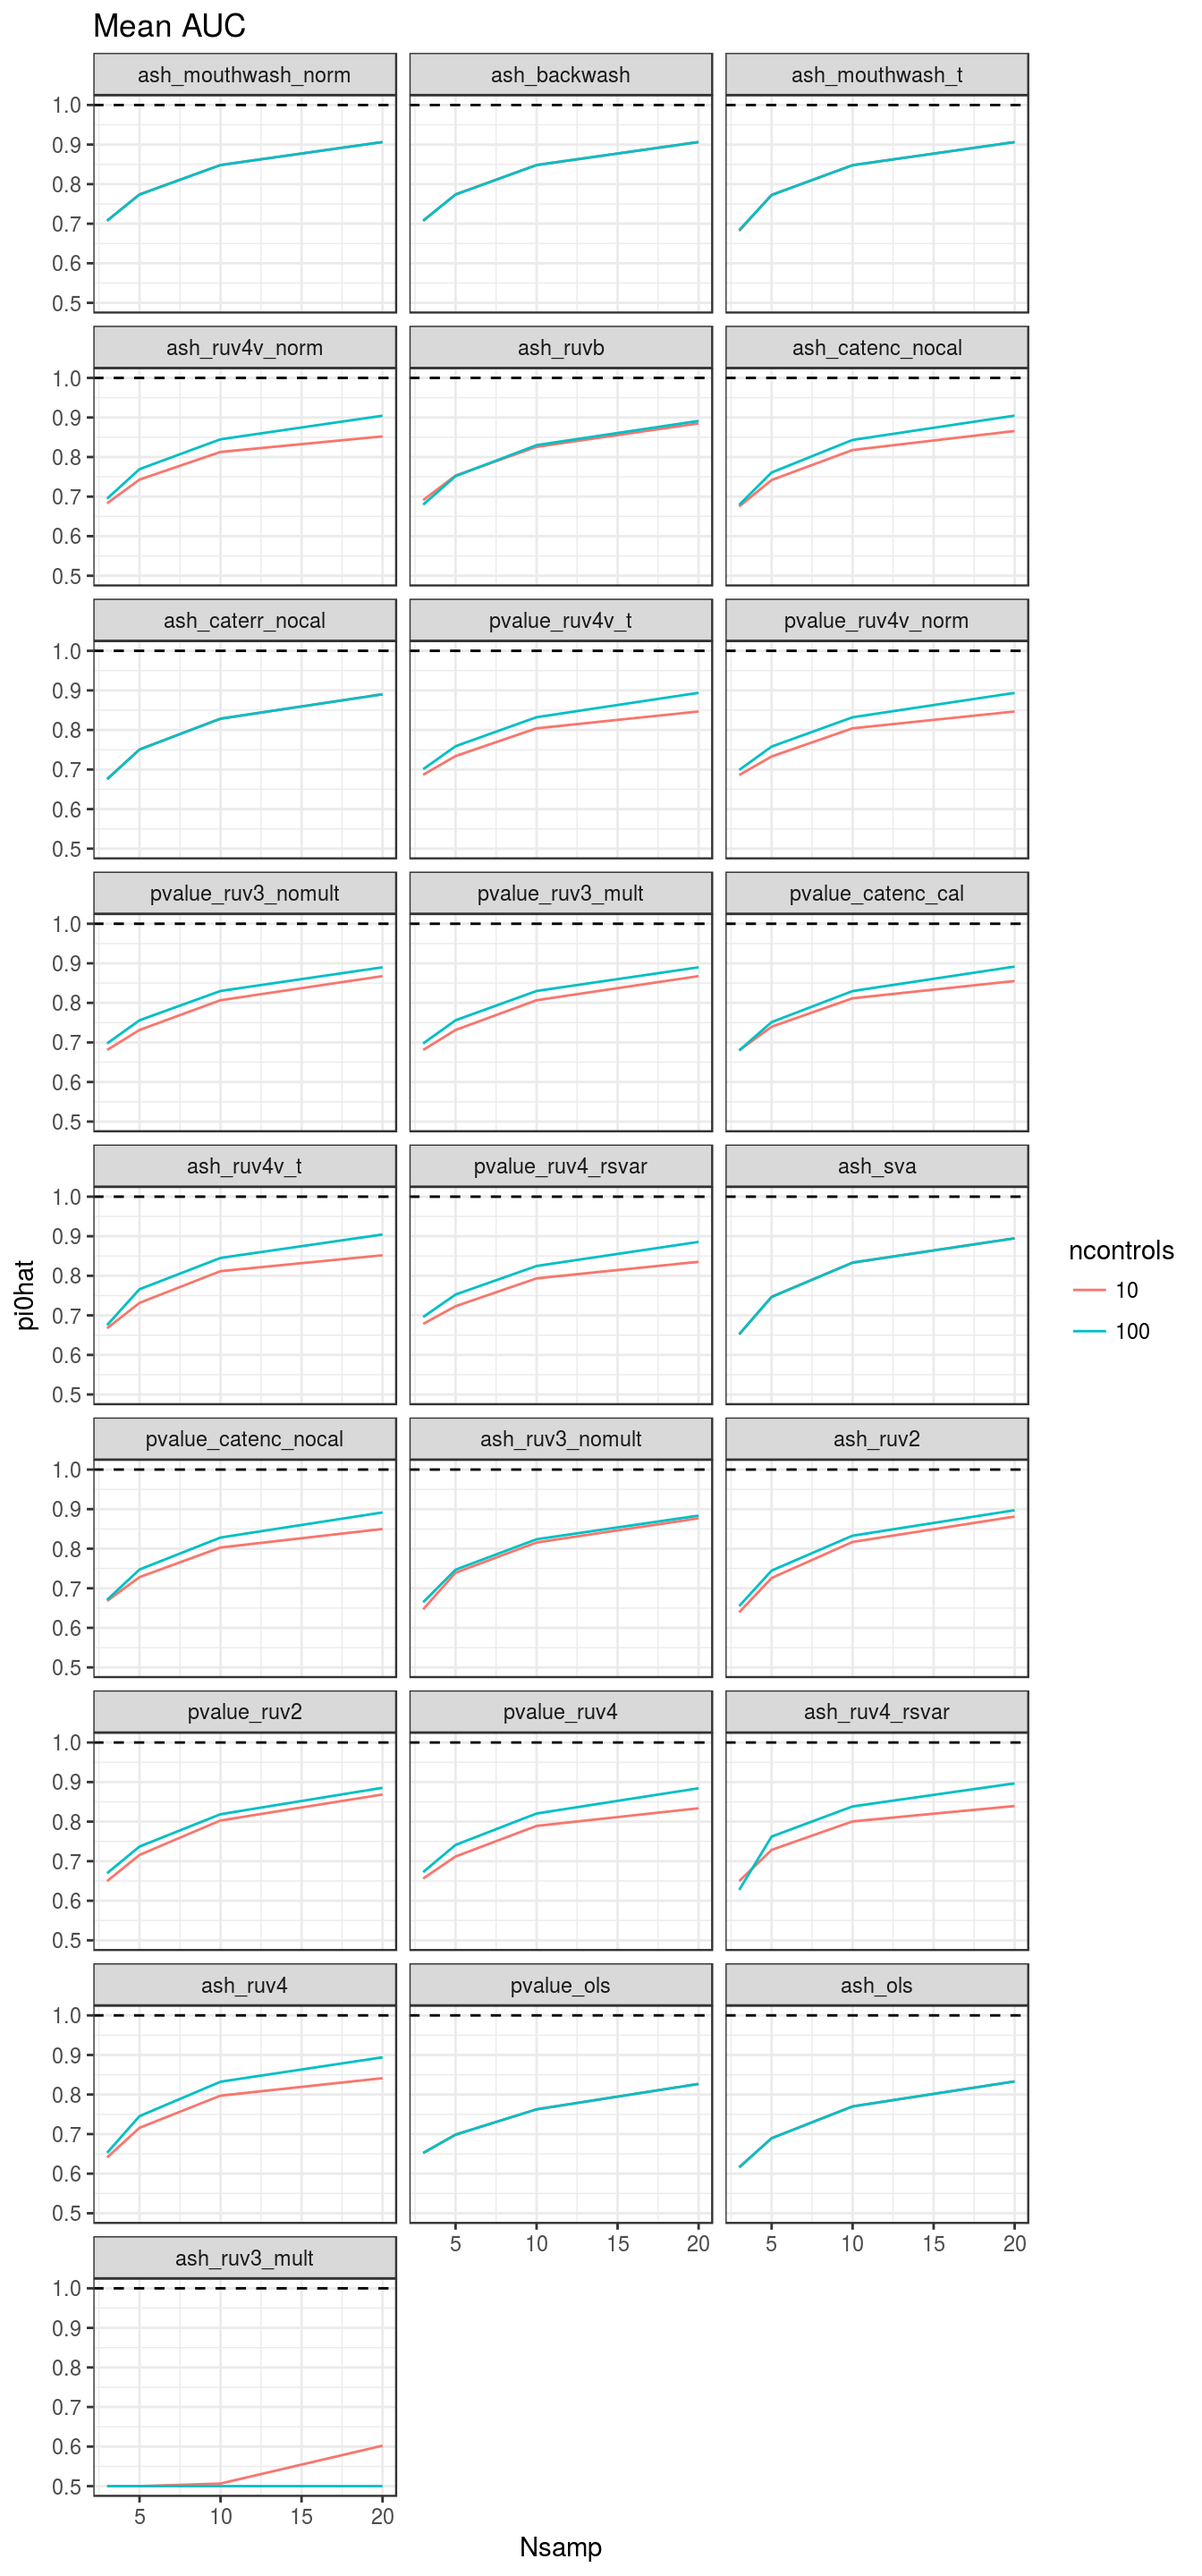
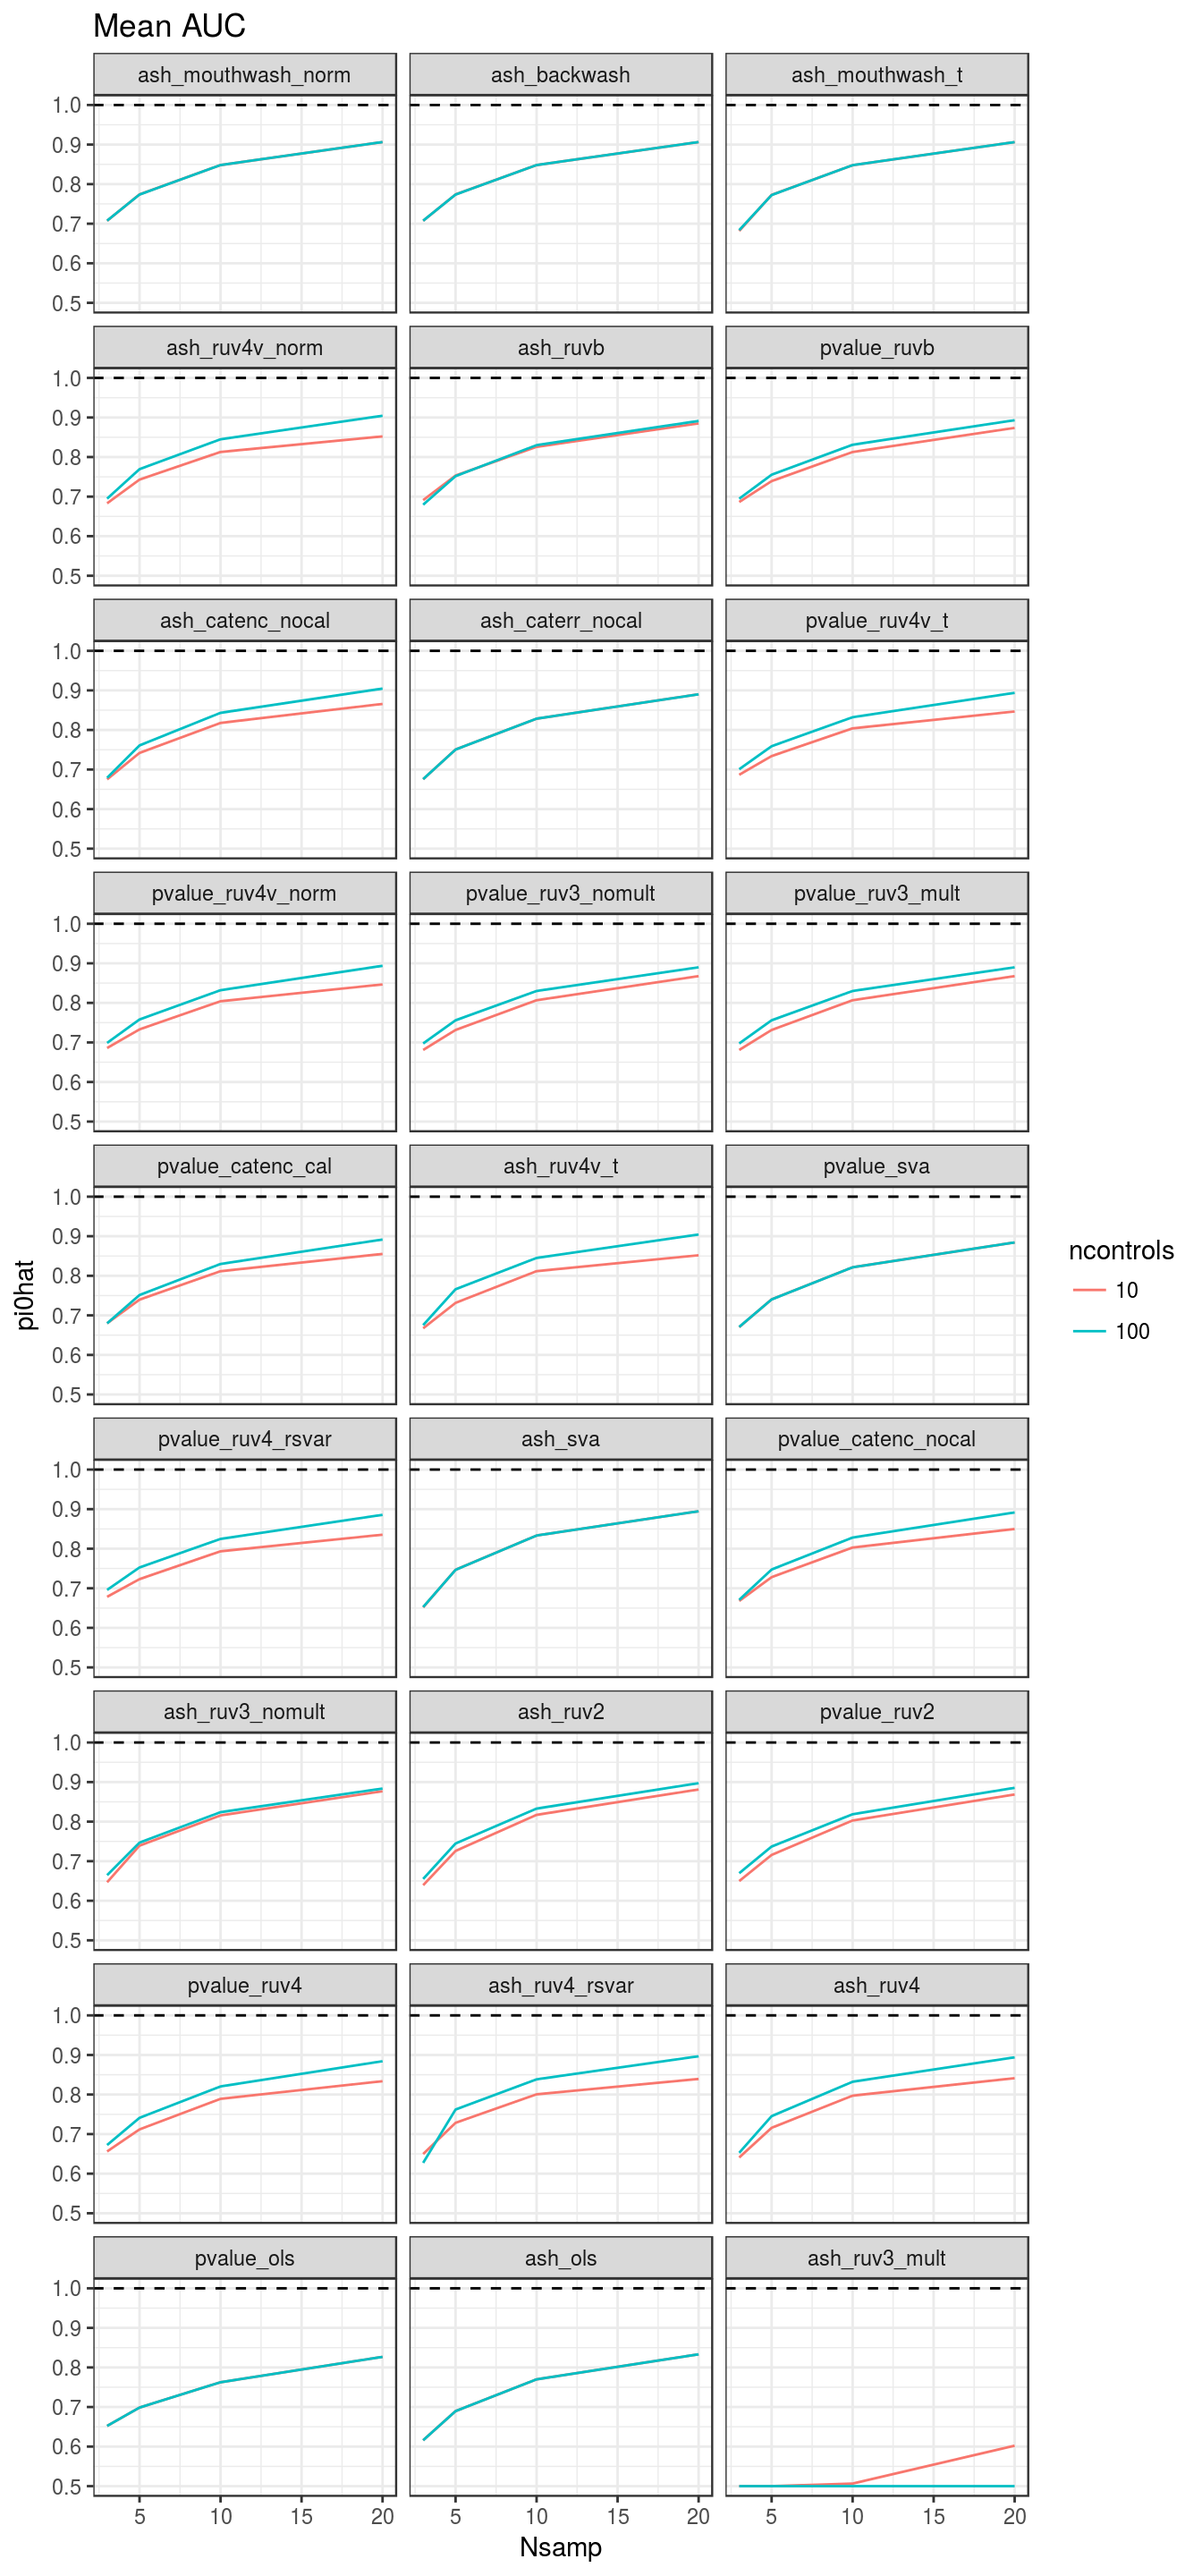
update of sim run

diff --git a/docs/ruvb_plus_ash.html b/docs/ruvb_plus_ash.html
@@ -330,7 +330,7 @@ div.tocify {
 ##     intersect, setdiff, setequal, union</code></pre>
 <pre class="r"><code>pi0hat &lt;- read.csv(file = &quot;../output/sims_out/pi0_mat2.csv&quot;)
 pos_bad &lt;- grep(names(pi0hat), pattern = &quot;auc&quot;) # some columns accidently have auc instead of pi0hat
-pi0hat &lt;- select(pi0hat, -pos_bad)
+pi0hat &lt;- select(pi0hat, -pos_bad) %&gt;% select(-pi0_qvalue_ruvb)
 mean_dat &lt;- pi0hat %&gt;%
   dplyr::select(-current_seed, -poisthin) %&gt;%
   dplyr::group_by(nullpi, Nsamp, ncontrols) %&gt;%
@@ -347,8 +347,8 @@ mean_dat_round[, -(1:3)] &lt;- round(mean_dat_round[, -(1:3)], digits = 2)
 DT::datatable(mean_dat_round, extensions = &#39;FixedColumns&#39;,
               options = list(dom = &quot;t&quot;, scrollX = TRUE, fixedColumns = list(leftColumns = 3)),
               rownames = FALSE)</code></pre>
-<div id="htmlwidget-59cc219c5da94035b553" style="width:100%;height:auto;" class="datatables html-widget"></div>
-<script type="application/json" data-for="htmlwidget-59cc219c5da94035b553">{"x":{"filter":"none","extensions":["FixedColumns"],"data":[[0.9,0.9,0.9,0.9,0.9,0.9,0.9,0.9],[3,3,5,5,10,10,20,20],[10,100,10,100,10,100,10,100],[0.94,0.94,0.92,0.92,0.91,0.91,0.9,0.9],[0.87,0.87,0.87,0.87,0.89,0.89,0.89,0.89],[0.86,0.86,0.87,0.87,0.88,0.88,0.89,0.89],[0.84,0.85,0.87,0.88,0.87,0.87,0.87,0.89],[0.81,0.82,0.85,0.84,0.85,0.86,0.85,0.89],[0.98,0.98,0.97,0.97,0.97,0.97,0.97,0.98],[0.81,0.81,0.85,0.85,0.82,0.82,0.82,0.82],[1,1,1,1,1,1,0.99,1],[1,1,1,1,1,1,1,1],[0.77,0.77,0.8,0.8,0.79,0.83,0.8,0.86],[0.77,0.77,0.78,0.78,0.79,0.81,0.81,0.84],[0.77,0.78,0.75,0.8,0.72,0.82,0.67,0.84],[0.61,0.61,0.74,0.74,0.75,0.75,0.76,0.76],[0.6,0.59,0.67,0.66,0.77,0.75,0.85,0.82],[0.79,0.94,0.73,0.93,0.61,0.9,0.41,0.87],[0.46,0.47,0.69,0.67,0.77,0.76,0.81,0.83],[0.77,0.95,0.68,0.92,0.5,0.9,0.29,0.89],[0.74,0.94,0.66,0.92,0.49,0.9,0.29,0.89],[0.74,0.98,0.63,0.93,0.46,0.88,0.25,0.84],[0.41,0.42,0.61,0.61,0.72,0.72,0.77,0.77],[0.37,0.4,0.48,0.56,0.53,0.68,0.48,0.74],[0.26,0.24,0.44,0.38,0.67,0.58,0.81,0.74],[0.2,0.2,0.32,0.32,0.43,0.43,0.53,0.53]],"container":"<table class=\"display\">\n  <thead>\n    <tr>\n      <th>nullpi\u003c/th>\n      <th>Nsamp\u003c/th>\n      <th>ncontrols\u003c/th>\n      <th>ash_mouthwash_t\u003c/th>\n      <th>ash_backwash\u003c/th>\n      <th>ash_mouthwash_norm\u003c/th>\n      <th>qvalue_ruv2\u003c/th>\n      <th>qvalue_ruv3_nomult\u003c/th>\n      <th>qvalue_catenc_cal\u003c/th>\n      <th>qvalue_ols\u003c/th>\n      <th>ash_ruv3_mult\u003c/th>\n      <th>qvalue_ruv3_mult\u003c/th>\n      <th>ash_ruv3_nomult\u003c/th>\n      <th>ash_ruvb\u003c/th>\n      <th>qvalue_ruv4\u003c/th>\n      <th>ash_ols\u003c/th>\n      <th>qvalue_catenc_nocal\u003c/th>\n      <th>qvalue_ruv4_rsvar\u003c/th>\n      <th>ash_ruv2\u003c/th>\n      <th>ash_ruv4v_norm\u003c/th>\n      <th>ash_ruv4v_t\u003c/th>\n      <th>ash_ruv4_rsvar\u003c/th>\n      <th>ash_sva\u003c/th>\n      <th>ash_ruv4\u003c/th>\n      <th>ash_catenc_nocal\u003c/th>\n      <th>ash_caterr_nocal\u003c/th>\n    \u003c/tr>\n  \u003c/thead>\n\u003c/table>","options":{"dom":"t","scrollX":true,"fixedColumns":{"leftColumns":3},"columnDefs":[{"className":"dt-right","targets":[0,1,2,3,4,5,6,7,8,9,10,11,12,13,14,15,16,17,18,19,20,21,22,23,24,25]}],"order":[],"autoWidth":false,"orderClasses":false}},"evals":[],"jsHooks":[]}</script>
+<div id="htmlwidget-f39ed1667d28eff8b9d3" style="width:100%;height:auto;" class="datatables html-widget"></div>
+<script type="application/json" data-for="htmlwidget-f39ed1667d28eff8b9d3">{"x":{"filter":"none","extensions":["FixedColumns"],"data":[[0.9,0.9,0.9,0.9,0.9,0.9,0.9,0.9],[3,3,5,5,10,10,20,20],[10,100,10,100,10,100,10,100],[0.94,0.94,0.92,0.92,0.91,0.91,0.9,0.9],[0.87,0.87,0.87,0.87,0.89,0.89,0.89,0.89],[0.86,0.86,0.87,0.87,0.88,0.88,0.89,0.89],[0.84,0.85,0.87,0.88,0.87,0.87,0.87,0.89],[0.81,0.82,0.85,0.84,0.85,0.86,0.85,0.89],[0.98,0.98,0.97,0.97,0.97,0.97,0.97,0.98],[0.81,0.81,0.85,0.85,0.82,0.82,0.82,0.82],[1,1,1,1,1,1,0.99,1],[1,1,1,1,1,1,1,1],[0.77,0.77,0.8,0.8,0.79,0.83,0.8,0.86],[0.77,0.77,0.78,0.78,0.79,0.81,0.81,0.84],[0.77,0.78,0.75,0.8,0.72,0.82,0.67,0.84],[0.83,0.95,0.78,0.95,0.64,0.94,0.45,0.9],[0.61,0.61,0.74,0.74,0.75,0.75,0.76,0.76],[0.79,0.91,0.75,0.92,0.62,0.92,0.44,0.89],[0.6,0.59,0.67,0.66,0.77,0.75,0.85,0.82],[0.79,0.94,0.73,0.93,0.61,0.9,0.41,0.87],[0.46,0.47,0.69,0.67,0.77,0.76,0.81,0.83],[0.77,0.95,0.68,0.92,0.5,0.9,0.29,0.89],[0.74,0.94,0.66,0.92,0.49,0.9,0.29,0.89],[0.74,0.98,0.63,0.93,0.46,0.88,0.25,0.84],[0.41,0.42,0.61,0.61,0.72,0.72,0.77,0.77],[0.37,0.4,0.48,0.56,0.53,0.68,0.48,0.74],[0.26,0.24,0.44,0.38,0.67,0.58,0.81,0.74],[0.2,0.2,0.32,0.32,0.43,0.43,0.53,0.53]],"container":"<table class=\"display\">\n  <thead>\n    <tr>\n      <th>nullpi\u003c/th>\n      <th>Nsamp\u003c/th>\n      <th>ncontrols\u003c/th>\n      <th>ash_mouthwash_t\u003c/th>\n      <th>ash_backwash\u003c/th>\n      <th>ash_mouthwash_norm\u003c/th>\n      <th>qvalue_ruv2\u003c/th>\n      <th>qvalue_ruv3_nomult\u003c/th>\n      <th>qvalue_catenc_cal\u003c/th>\n      <th>qvalue_ols\u003c/th>\n      <th>ash_ruv3_mult\u003c/th>\n      <th>qvalue_ruv3_mult\u003c/th>\n      <th>ash_ruv3_nomult\u003c/th>\n      <th>ash_ruvb\u003c/th>\n      <th>qvalue_ruv4\u003c/th>\n      <th>qvalue_ruv4v_norm\u003c/th>\n      <th>ash_ols\u003c/th>\n      <th>qvalue_ruv4v_t\u003c/th>\n      <th>qvalue_catenc_nocal\u003c/th>\n      <th>qvalue_ruv4_rsvar\u003c/th>\n      <th>ash_ruv2\u003c/th>\n      <th>ash_ruv4v_norm\u003c/th>\n      <th>ash_ruv4v_t\u003c/th>\n      <th>ash_ruv4_rsvar\u003c/th>\n      <th>ash_sva\u003c/th>\n      <th>ash_ruv4\u003c/th>\n      <th>ash_catenc_nocal\u003c/th>\n      <th>ash_caterr_nocal\u003c/th>\n    \u003c/tr>\n  \u003c/thead>\n\u003c/table>","options":{"dom":"t","scrollX":true,"fixedColumns":{"leftColumns":3},"columnDefs":[{"className":"dt-right","targets":[0,1,2,3,4,5,6,7,8,9,10,11,12,13,14,15,16,17,18,19,20,21,22,23,24,25,26,27]}],"order":[],"autoWidth":false,"orderClasses":false}},"evals":[],"jsHooks":[]}</script>
 </div>
 <div id="plot-estimates" class="section level2">
 <h2>Plot estimates</h2>
@@ -388,8 +388,8 @@ mean_dat_round[, -(1:3)] &lt;- round(mean_dat_round[, -(1:3)], digits = 2)
 DT::datatable(mean_dat_round, extensions = &#39;FixedColumns&#39;,
               options = list(dom = &quot;t&quot;, scrollX = TRUE, fixedColumns = list(leftColumns = 3)),
               rownames = FALSE)</code></pre>
-<div id="htmlwidget-69666ad897f38c2ed8f0" style="width:100%;height:auto;" class="datatables html-widget"></div>
-<script type="application/json" data-for="htmlwidget-69666ad897f38c2ed8f0">{"x":{"filter":"none","extensions":["FixedColumns"],"data":[[0.9,0.9,0.9,0.9,0.9,0.9,0.9,0.9],[3,3,5,5,10,10,20,20],[10,100,10,100,10,100,10,100],[0.71,0.71,0.77,0.77,0.85,0.85,0.91,0.91],[0.71,0.71,0.77,0.77,0.85,0.85,0.91,0.91],[0.68,0.68,0.77,0.77,0.85,0.85,0.91,0.91],[0.68,0.69,0.74,0.77,0.81,0.84,0.85,0.9],[0.69,0.68,0.75,0.75,0.83,0.83,0.88,0.89],[0.68,0.68,0.74,0.76,0.82,0.84,0.87,0.9],[0.68,0.68,0.75,0.75,0.83,0.83,0.89,0.89],[0.69,0.7,0.73,0.76,0.8,0.83,0.85,0.89],[0.69,0.7,0.73,0.76,0.8,0.83,0.85,0.89],[0.68,0.7,0.73,0.76,0.81,0.83,0.87,0.89],[0.68,0.7,0.73,0.76,0.81,0.83,0.87,0.89],[0.68,0.68,0.74,0.75,0.81,0.83,0.86,0.89],[0.67,0.68,0.73,0.77,0.81,0.85,0.85,0.9],[0.68,0.7,0.72,0.75,0.79,0.82,0.84,0.89],[0.65,0.65,0.75,0.75,0.83,0.83,0.89,0.89],[0.67,0.67,0.73,0.75,0.8,0.83,0.85,0.89],[0.65,0.66,0.74,0.75,0.82,0.82,0.88,0.88],[0.64,0.66,0.73,0.74,0.82,0.83,0.88,0.9],[0.65,0.67,0.72,0.74,0.8,0.82,0.87,0.89],[0.66,0.67,0.71,0.74,0.79,0.82,0.83,0.88],[0.65,0.63,0.73,0.76,0.8,0.84,0.84,0.9],[0.64,0.65,0.72,0.75,0.8,0.83,0.84,0.89],[0.65,0.65,0.7,0.7,0.76,0.76,0.83,0.83],[0.62,0.62,0.69,0.69,0.77,0.77,0.83,0.83],[0.5,0.5,0.5,0.5,0.51,0.5,0.6,0.5]],"container":"<table class=\"display\">\n  <thead>\n    <tr>\n      <th>nullpi\u003c/th>\n      <th>Nsamp\u003c/th>\n      <th>ncontrols\u003c/th>\n      <th>ash_mouthwash_norm\u003c/th>\n      <th>ash_backwash\u003c/th>\n      <th>ash_mouthwash_t\u003c/th>\n      <th>ash_ruv4v_norm\u003c/th>\n      <th>ash_ruvb\u003c/th>\n      <th>ash_catenc_nocal\u003c/th>\n      <th>ash_caterr_nocal\u003c/th>\n      <th>pvalue_ruv4v_t\u003c/th>\n      <th>pvalue_ruv4v_norm\u003c/th>\n      <th>pvalue_ruv3_nomult\u003c/th>\n      <th>pvalue_ruv3_mult\u003c/th>\n      <th>pvalue_catenc_cal\u003c/th>\n      <th>ash_ruv4v_t\u003c/th>\n      <th>pvalue_ruv4_rsvar\u003c/th>\n      <th>ash_sva\u003c/th>\n      <th>pvalue_catenc_nocal\u003c/th>\n      <th>ash_ruv3_nomult\u003c/th>\n      <th>ash_ruv2\u003c/th>\n      <th>pvalue_ruv2\u003c/th>\n      <th>pvalue_ruv4\u003c/th>\n      <th>ash_ruv4_rsvar\u003c/th>\n      <th>ash_ruv4\u003c/th>\n      <th>pvalue_ols\u003c/th>\n      <th>ash_ols\u003c/th>\n      <th>ash_ruv3_mult\u003c/th>\n    \u003c/tr>\n  \u003c/thead>\n\u003c/table>","options":{"dom":"t","scrollX":true,"fixedColumns":{"leftColumns":3},"columnDefs":[{"className":"dt-right","targets":[0,1,2,3,4,5,6,7,8,9,10,11,12,13,14,15,16,17,18,19,20,21,22,23,24,25,26,27]}],"order":[],"autoWidth":false,"orderClasses":false}},"evals":[],"jsHooks":[]}</script>
+<div id="htmlwidget-3cc9d8fff5944c6a9ad0" style="width:100%;height:auto;" class="datatables html-widget"></div>
+<script type="application/json" data-for="htmlwidget-3cc9d8fff5944c6a9ad0">{"x":{"filter":"none","extensions":["FixedColumns"],"data":[[0.9,0.9,0.9,0.9,0.9,0.9,0.9,0.9],[3,3,5,5,10,10,20,20],[10,100,10,100,10,100,10,100],[0.71,0.71,0.77,0.77,0.85,0.85,0.91,0.91],[0.71,0.71,0.77,0.77,0.85,0.85,0.91,0.91],[0.68,0.68,0.77,0.77,0.85,0.85,0.91,0.91],[0.68,0.69,0.74,0.77,0.81,0.84,0.85,0.9],[0.69,0.68,0.75,0.75,0.83,0.83,0.88,0.89],[0.69,0.69,0.74,0.76,0.81,0.83,0.87,0.89],[0.68,0.68,0.74,0.76,0.82,0.84,0.87,0.9],[0.68,0.68,0.75,0.75,0.83,0.83,0.89,0.89],[0.69,0.7,0.73,0.76,0.8,0.83,0.85,0.89],[0.69,0.7,0.73,0.76,0.8,0.83,0.85,0.89],[0.68,0.7,0.73,0.76,0.81,0.83,0.87,0.89],[0.68,0.7,0.73,0.76,0.81,0.83,0.87,0.89],[0.68,0.68,0.74,0.75,0.81,0.83,0.86,0.89],[0.67,0.68,0.73,0.77,0.81,0.85,0.85,0.9],[0.67,0.67,0.74,0.74,0.82,0.82,0.88,0.88],[0.68,0.7,0.72,0.75,0.79,0.82,0.84,0.89],[0.65,0.65,0.75,0.75,0.83,0.83,0.89,0.89],[0.67,0.67,0.73,0.75,0.8,0.83,0.85,0.89],[0.65,0.66,0.74,0.75,0.82,0.82,0.88,0.88],[0.64,0.66,0.73,0.74,0.82,0.83,0.88,0.9],[0.65,0.67,0.72,0.74,0.8,0.82,0.87,0.89],[0.66,0.67,0.71,0.74,0.79,0.82,0.83,0.88],[0.65,0.63,0.73,0.76,0.8,0.84,0.84,0.9],[0.64,0.65,0.72,0.75,0.8,0.83,0.84,0.89],[0.65,0.65,0.7,0.7,0.76,0.76,0.83,0.83],[0.62,0.62,0.69,0.69,0.77,0.77,0.83,0.83],[0.5,0.5,0.5,0.5,0.51,0.5,0.6,0.5]],"container":"<table class=\"display\">\n  <thead>\n    <tr>\n      <th>nullpi\u003c/th>\n      <th>Nsamp\u003c/th>\n      <th>ncontrols\u003c/th>\n      <th>ash_mouthwash_norm\u003c/th>\n      <th>ash_backwash\u003c/th>\n      <th>ash_mouthwash_t\u003c/th>\n      <th>ash_ruv4v_norm\u003c/th>\n      <th>ash_ruvb\u003c/th>\n      <th>pvalue_ruvb\u003c/th>\n      <th>ash_catenc_nocal\u003c/th>\n      <th>ash_caterr_nocal\u003c/th>\n      <th>pvalue_ruv4v_t\u003c/th>\n      <th>pvalue_ruv4v_norm\u003c/th>\n      <th>pvalue_ruv3_nomult\u003c/th>\n      <th>pvalue_ruv3_mult\u003c/th>\n      <th>pvalue_catenc_cal\u003c/th>\n      <th>ash_ruv4v_t\u003c/th>\n      <th>pvalue_sva\u003c/th>\n      <th>pvalue_ruv4_rsvar\u003c/th>\n      <th>ash_sva\u003c/th>\n      <th>pvalue_catenc_nocal\u003c/th>\n      <th>ash_ruv3_nomult\u003c/th>\n      <th>ash_ruv2\u003c/th>\n      <th>pvalue_ruv2\u003c/th>\n      <th>pvalue_ruv4\u003c/th>\n      <th>ash_ruv4_rsvar\u003c/th>\n      <th>ash_ruv4\u003c/th>\n      <th>pvalue_ols\u003c/th>\n      <th>ash_ols\u003c/th>\n      <th>ash_ruv3_mult\u003c/th>\n    \u003c/tr>\n  \u003c/thead>\n\u003c/table>","options":{"dom":"t","scrollX":true,"fixedColumns":{"leftColumns":3},"columnDefs":[{"className":"dt-right","targets":[0,1,2,3,4,5,6,7,8,9,10,11,12,13,14,15,16,17,18,19,20,21,22,23,24,25,26,27,28,29]}],"order":[],"autoWidth":false,"orderClasses":false}},"evals":[],"jsHooks":[]}</script>
 <p>RUVB seems to do 4th or 5th best behind both mouthwash methods, backwash, and limma-shrunk/variance inflated ruv4. Interestingly, its AUC seems to be rather robust to the number of control genes used, unlike other control gene methods.</p>
 <pre class="r"><code>library(ggplot2)
 library(tidyr)
